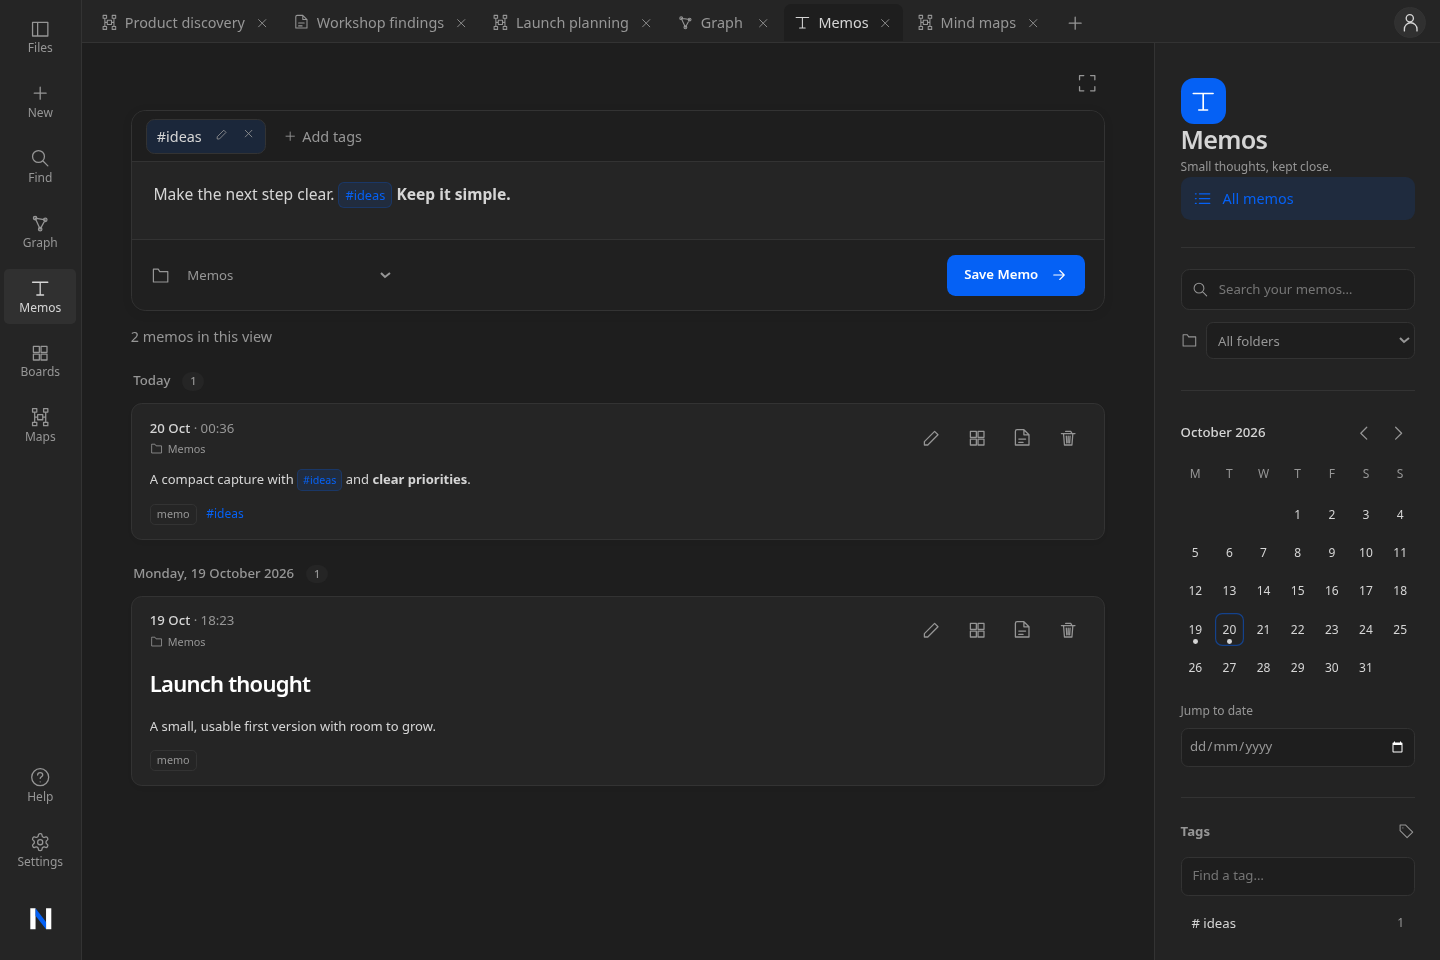
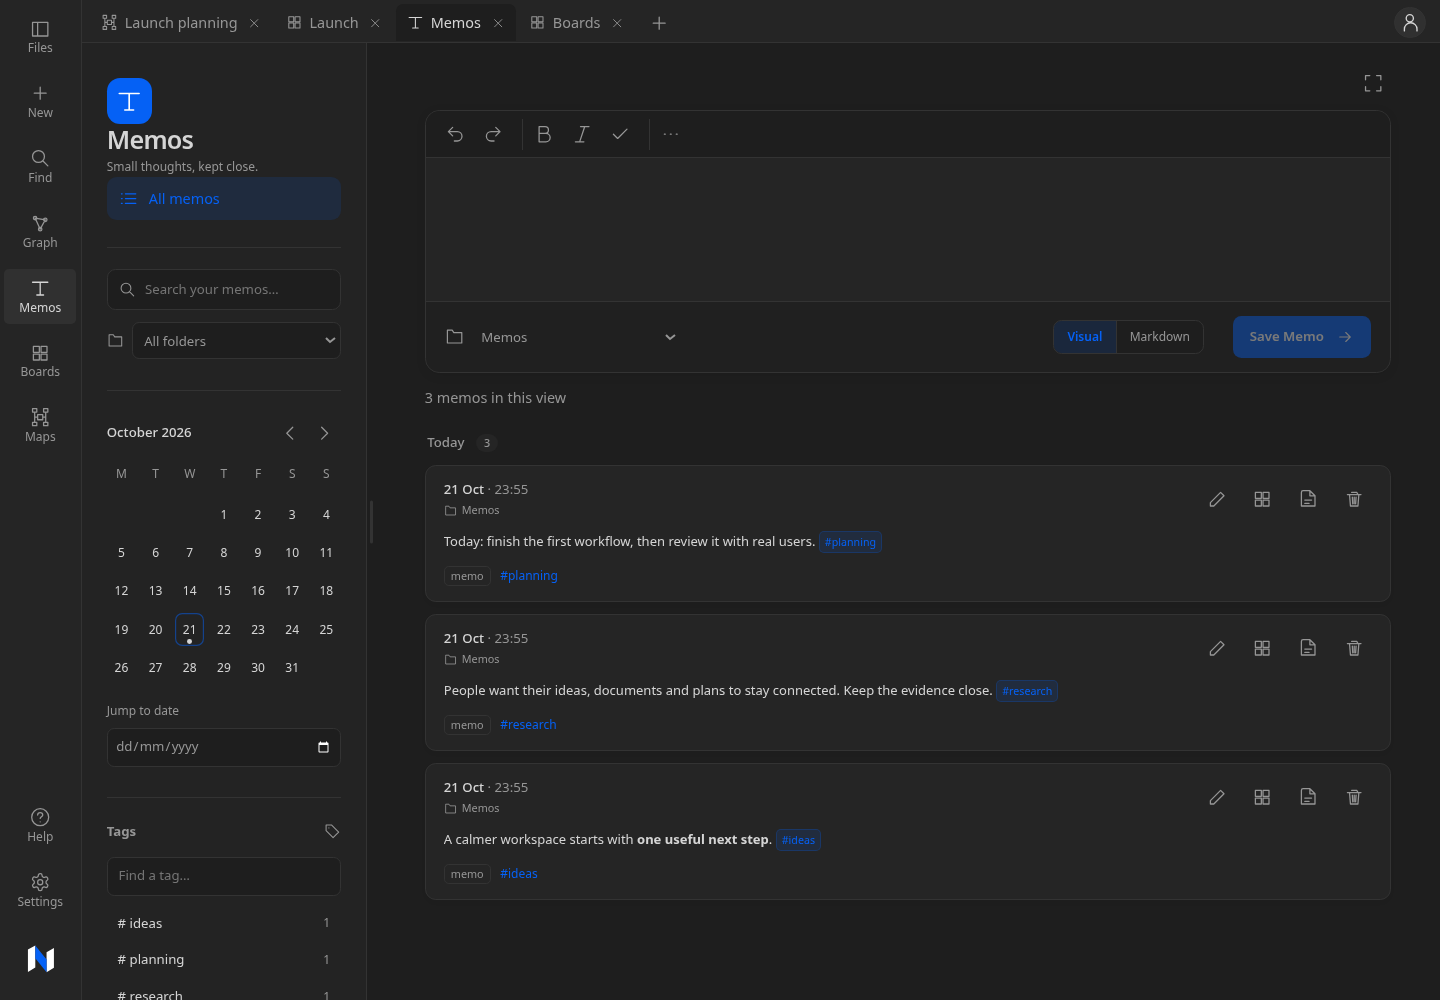
docs: refresh 0.4.0 screenshots and record publication

diff --git a/docs/roadmap-state.md b/docs/roadmap-state.md
@@ -148,3 +148,32 @@ Release validation passed: 378 frontend tests (44 files), complete backend tests
 server vet, strict Helm lint and diff whitespace checks. Production frontend
 build and Docker review smoke checks passed before the metadata version bump.
 Publication uses the existing Release workflow triggered by tag 0.4.0.
+
+### Published 0.4.0
+
+- Published: https://github.com/pentaqilo/netsidian/releases/tag/0.4.0.
+- Release commit/tag: 8699d44 / 0.4.0, pushed to main and GitHub.
+- Workflow 39680936443 succeeded: four desktop targets, Helm, multi-platform
+  Docker and release publication. All seven expected assets are present.
+- SHA256SUMS entries match GitHub's asset digests; the downloaded checksum
+  manifest and Docker digest file were independently verified.
+- Docker: ghcr.io/pentaqilo/netsidian:0.4.0, immutable multi-platform digest
+  sha256:4090c7e5e8bfd9865d98cf5b4f8fd3fcf7d26de28127acd1792949601bcfe445.
+- Screenshot refresh requested after publication is a separate documentation
+  follow-up; the published 0.4.0 tag is retained unchanged.
+
+### Screenshot follow-up
+
+- Refreshed README appearance, document reading mode, Memos, Kanban preview and
+  map screenshots; added MCP/agent settings. Six real 1440x1000 captures from
+  published 0.4.0, with accurate captions and all 11 README image links checked.
+- OpenCode's initial attempt was stopped after excessive graph framing; the
+  screenshot subagent completed captures and root independently reviewed images,
+  catching and correcting a transient Memos loading state before publication.
+- Automatic approval rejected creating a persistent demonstration vault in the
+  shared review instance. The approved safer alternative used isolated tmpfs
+  test data in a temporary Docker container; container/data were removed after
+  capture. Shared review content was retained; scratch files were removed.
+- Published 0.4.0 image now runs on the retained local review container at
+  http://127.0.0.1:3010. The screenshot documentation follow-up does not move or
+  replace release tag 0.4.0.

diff --git a/README.md b/README.md
@@ -164,19 +164,23 @@ Release automation runs on version tags such as `0.2.0`. It publishes the GitHub
 
 ### Markdown document view
 
-![Markdown document view with file navigation, tags, and tables](docs/screenshots/document-view.png)
+![Markdown reading mode with file navigation, a checklist and a blockquote](docs/screenshots/document-view.png)
 
 ### Memos timeline
 
-![Memos timeline with tags and document linking](docs/screenshots/memos.png)
+![Compact Memos timeline with a visual composer, live tags and a calendar on the left](docs/screenshots/memos.png)
 
 ### Kanban boards with task previews
 
 ![Kanban board with task columns and an editable, resizable task preview](docs/screenshots/kanban.png)
 
-### Mind maps with resizable Markdown cards
+### Mind maps with Markdown cards and canvas navigation
 
-![Mind map with rendered Markdown cards, linked files and border connectors](docs/screenshots/mindmap.png)
+![Mind map with rendered Markdown cards, a linked research note, border connectors, zoom controls and a minimap toggle](docs/screenshots/mindmap.png)
+
+### MCP and agent access
+
+![MCP settings with connection instructions, vault selection and scoped token permissions; no tokens are displayed](docs/screenshots/mcp-agents.png)
 
 ### PDF document tabs with Markdown conversion
 
